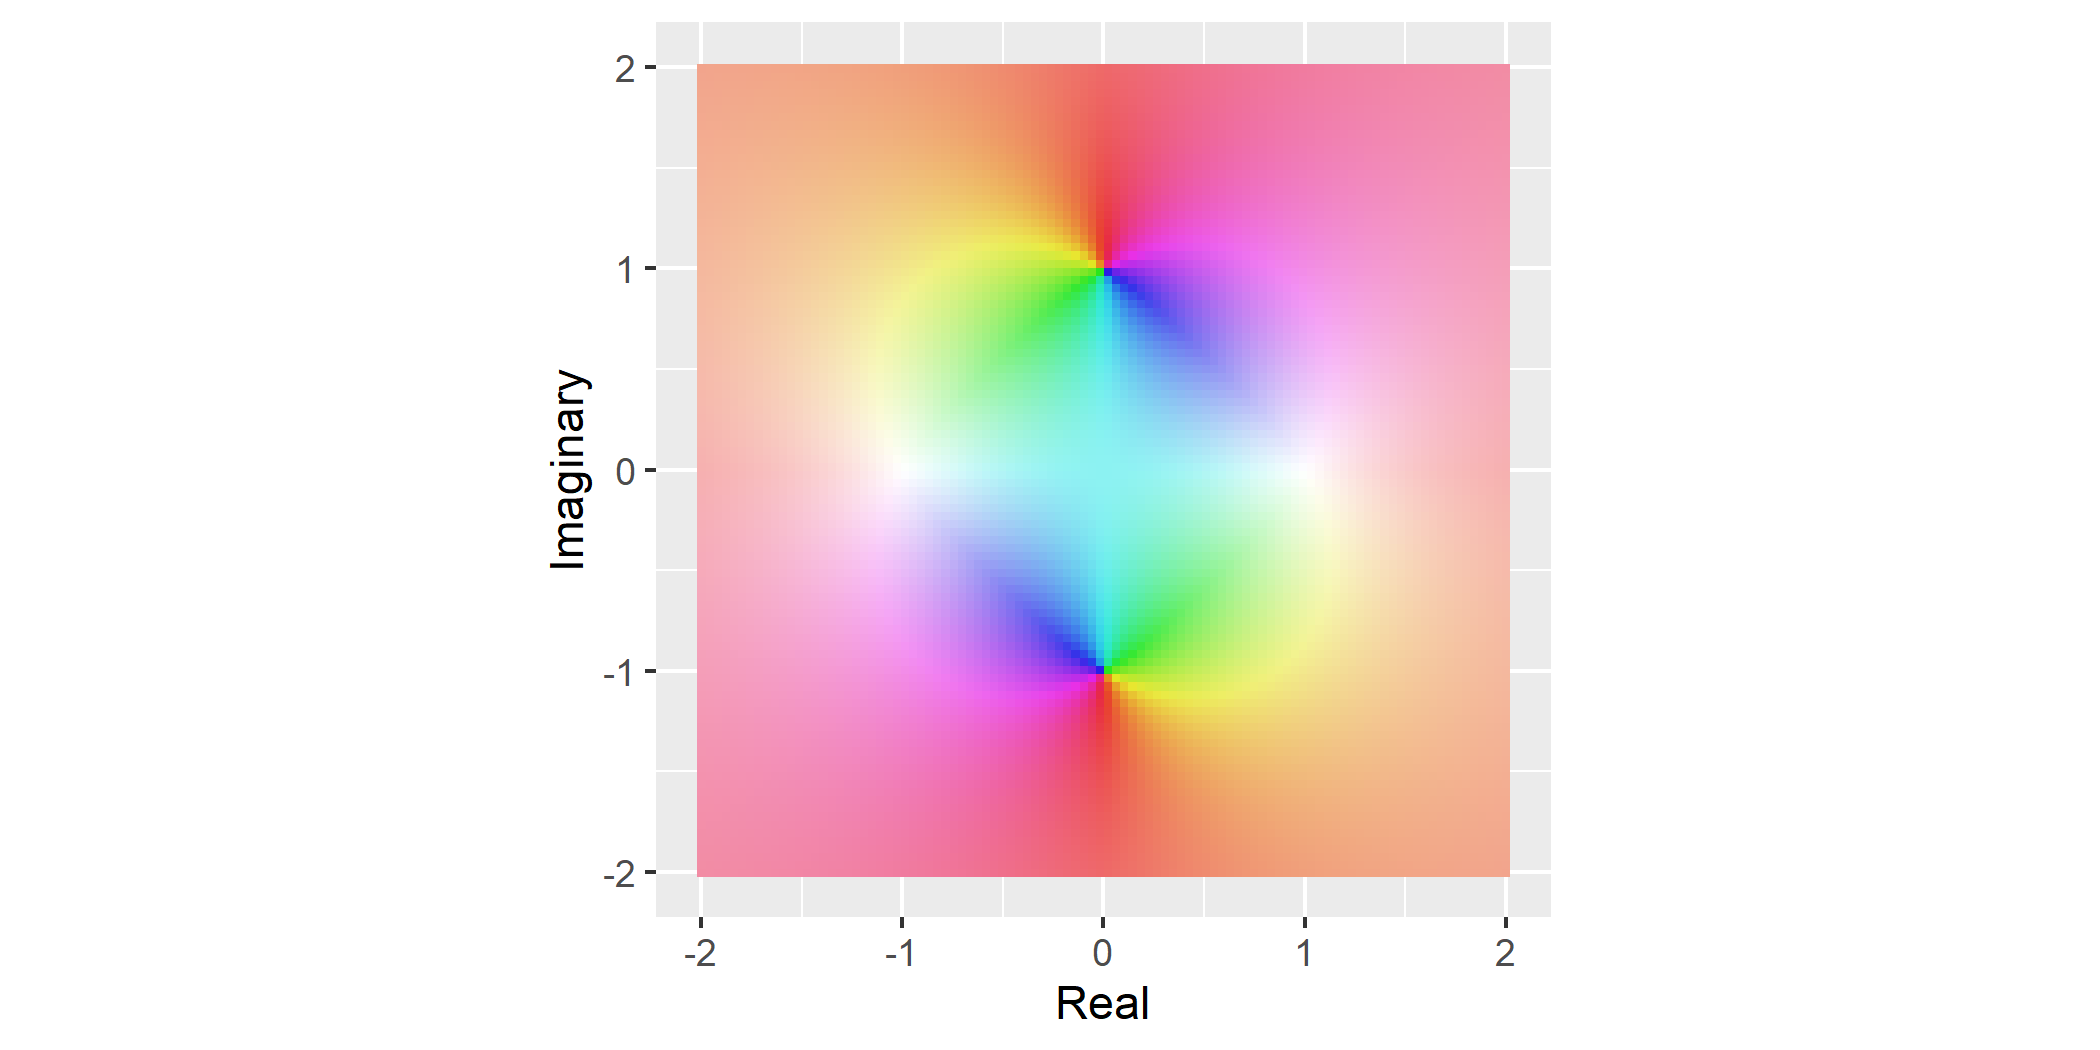
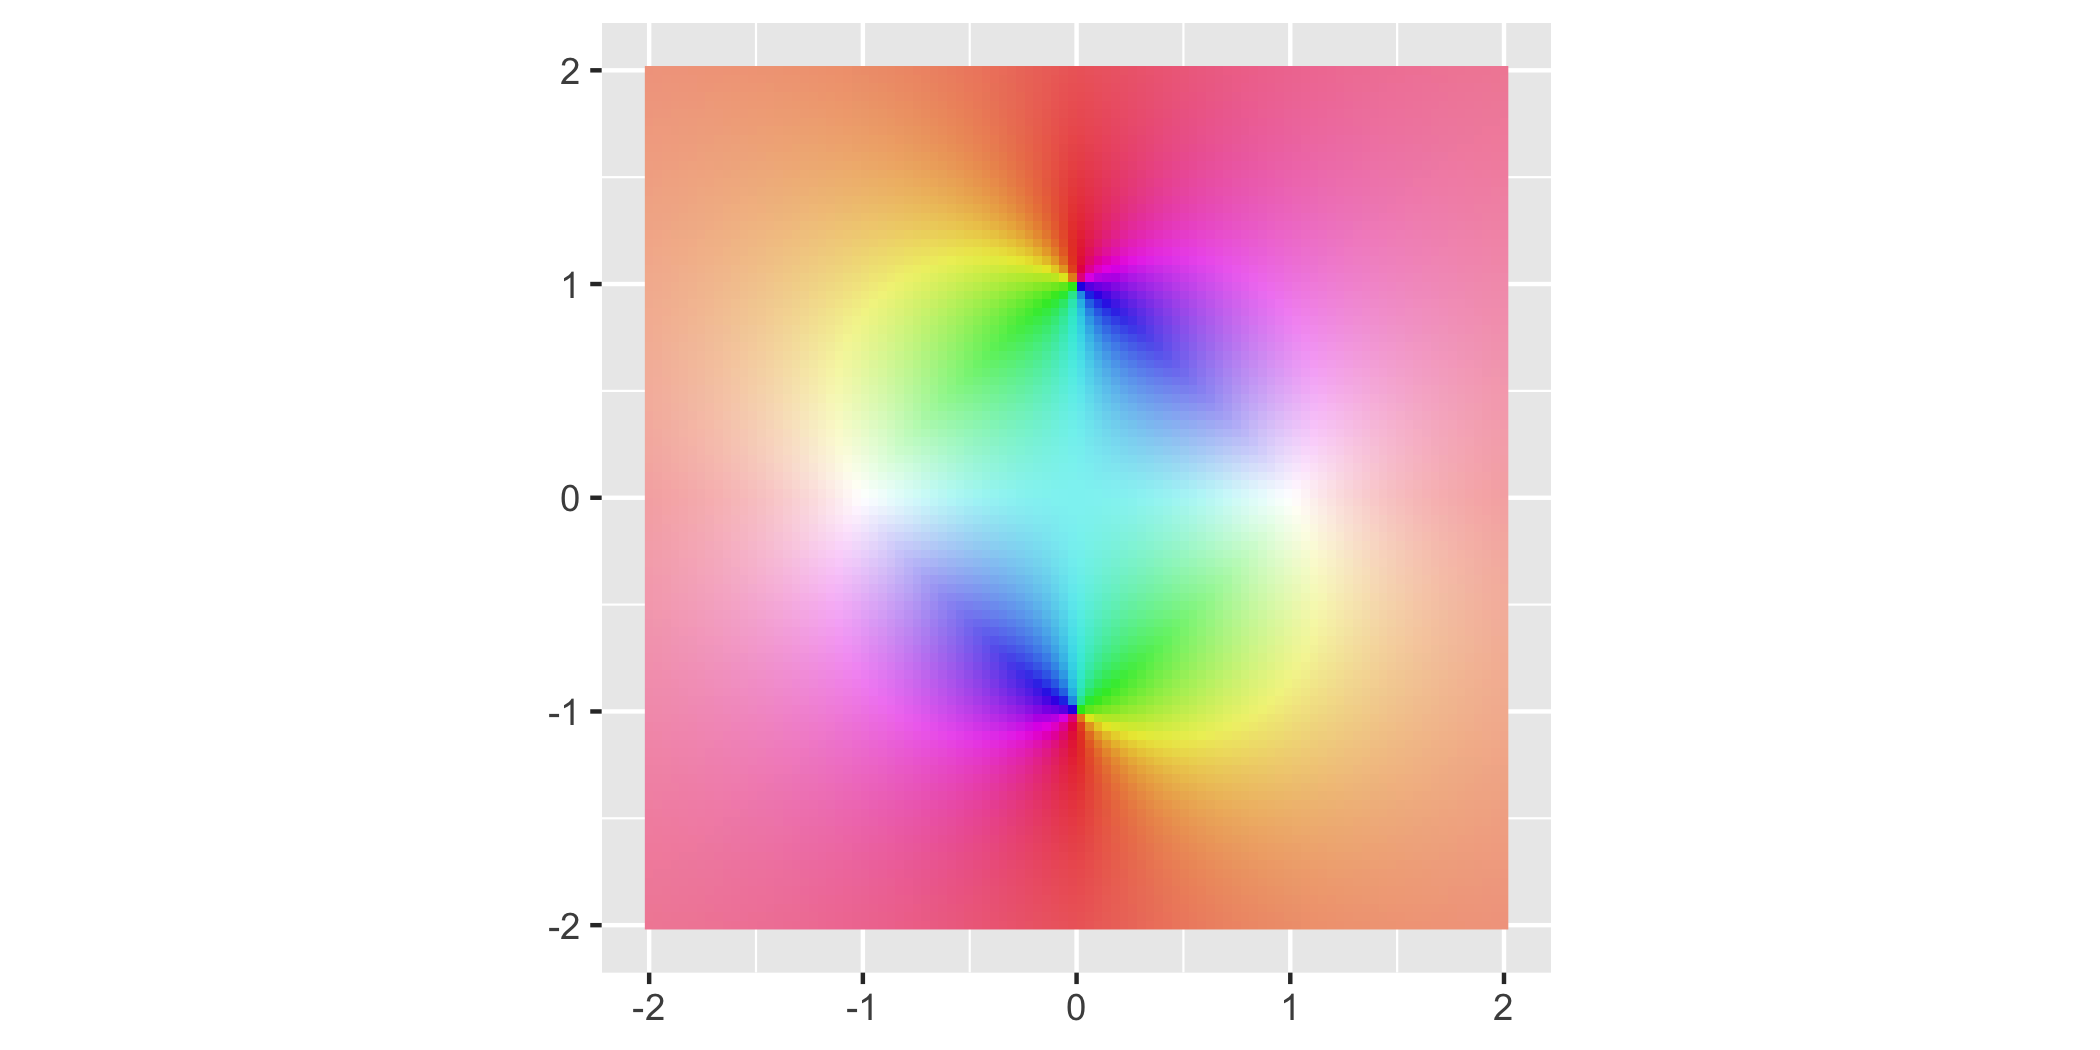
minor updates to readme

diff --git a/README.md b/README.md
@@ -1,39 +1,32 @@
 
 <!-- README.md is generated from README.Rmd. Please edit that file -->
 
-# ggvfields
+# **ggvfields**
 
 ## Overview
 
-ggvfields provides tools for visualizing vector fields, complex numbers,
-and soon dual numbers and more.
-
-## Installation
-
-You can install the development version from GitHub:
+**ggvfields** provides tools for visualizing vector fields, complex
+numbers, and soon dual numbers and more.
 
 ``` r
-devtools::install_github("dusty-turner/ggvfields")
-```
-
-``` r
-library(ggvfields)
+library("ggvfields")
+#> Loading required package: ggplot2
 ```
 
 ## Usage
 
-### `geom_vector_field`
+### `geom_vector_field()`
 
-The `geom_vector_field` function generates a vector field plot layer
+The `geom_vector_field()` function generates a vector field plot layer
 using a user-defined function to compute the vector components. This
 function abstracts away the mathematical computations required to
 generate the vector field, so the user does not need to manually
-calculate and input the vector components into `geom_segment`. It
+calculate and input the vector components into `geom_segment()`. It
 simplifies the process, making it easier to create vector field
 visualizations without dealing with the underlying math.
 
 ``` r
-library(ggplot2)
+library("ggplot2")
 
 # custom function
 f <- function(x, y) {
@@ -42,7 +35,7 @@ f <- function(x, y) {
   list(u, v)
 }
 
-# Create a ggplot with the vector field layer
+# create a ggplot with the vector field layer
 ggplot() +
   geom_vector_field(fun = f, xlim = c(-10, 10), ylim = c(-10, 10), n = 20) +
   coord_fixed()
@@ -50,24 +43,24 @@ ggplot() +
 
 <img src="man/figures/README-unnamed-chunk-3-1.png" width="100%" />
 
-### `geom_complex_vector_field`
+### `geom_complex_vector_field()`
 
-The geom_vector_field function generates a vector field plot layer using
-a user-defined function to compute the vector components. This function
-abstracts away the mathematical computations required to generate the
-vector field, so the user does not need to manually calculate and input
-the vector components into geom_segment. It simplifies the process,
-making it easier to create vector field visualizations without dealing
-with the underlying math.
+The `geom_vector_field()` function generates a vector field plot layer
+using a user-defined function to compute the vector components. This
+function abstracts away the mathematical computations required to
+generate the vector field, so the user does not need to manually
+calculate and input the vector components into `geom_segment()`. It
+simplifies the process, making it easier to create vector field
+visualizations without dealing with the underlying math.
 
 ``` r
 # custom function
 f <- function(z) (z^2 + 1) / (z^2 - 1)
 
-# Create a ggplot with the complex vector field layer
+# create a ggplot with the complex vector field layer
 ggplot() +
   geom_complex_vector_field(fun = f, relim = c(-2, 2), imlim = c(-2, 2), n = 100) +
-  labs(x = "Real", y = "Imaginary") +
+  # labs(x = "Real", y = "Imaginary") +
   coord_fixed()
 ```
 
@@ -79,5 +72,14 @@ This package is licensed under the MIT License.
 
 ## Contact
 
-For any questions or issues, please open an issue on GitHub or contact
-the maintainer.
+For any questions or issues, please [open an
+issue](https://github.com/dusty-turner/ggvfields/issues/new) on GitHub
+or contact the maintainer.
+
+## Installation
+
+You can install the development version from GitHub:
+
+``` r
+devtools::install_github("dusty-turner/ggvfields")
+```
